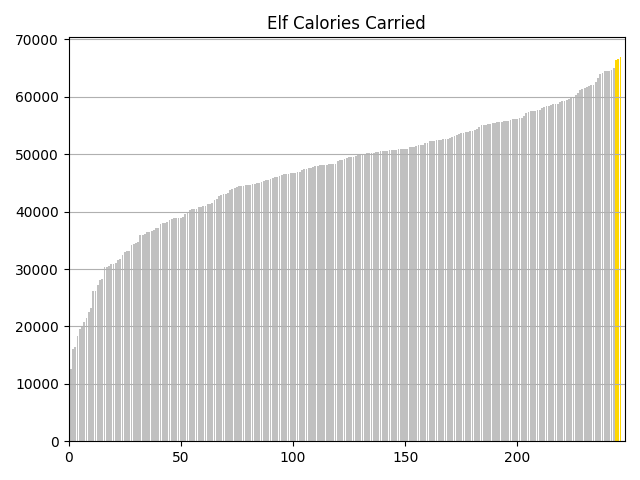
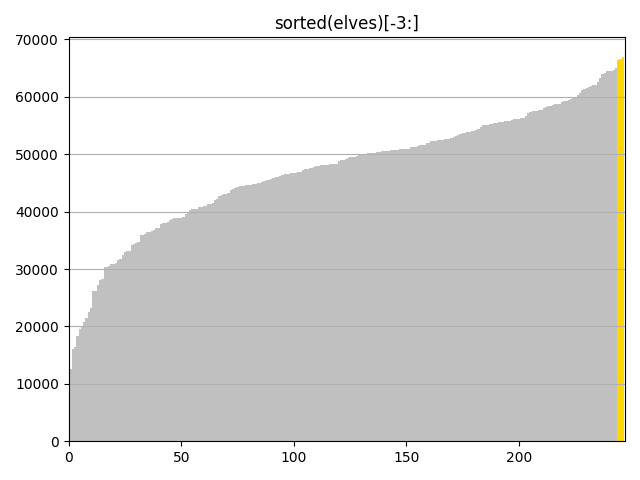
day1 viz

diff --git a/test.py b/test.py
@@ -1,17 +1,19 @@
-from utils import TESTS
+from utils import TESTS, show
 from pathlib import Path
 import traceback
 import importlib
+import sys
 
-REPORT = """
-###### Totals #######
+REPORT = """###### Test Summary #######
 
-EXECUTED = {}
-PASSED = {}
-FAILED = {}
-ERRORS = {}
-SKIPPED = {}
+EXECUTED = {EXECUTED}
+PASSED = {PASSED}
+FAILED = {FAILED}
+ERRORS = {ERRORS}
+SKIPPED = {SKIPPED}
 """
+
+REPORT2 = "executed:{EXECUTED} passed:{PASSED} failed:{FAILED} errors:{ERRORS}"
 
 def test():
     # import each module and run it's tests
@@ -19,20 +21,16 @@ def test():
         module_name = f"day{n}"
         if (Path(__file__).parent / f"{module_name}.py").is_file():
             try:
-                print(f"\n####### Day {n} #######\n")
+                print(f"####### Day {n} #######")
                 mod = importlib.import_module(module_name)
-                mod.main()
+                show(mod.p1, mod.p2, compact=True)
             except:
                 TESTS.ERRORS += 1
                 traceback.print_exc()
 
     # print test report
-    print(REPORT.format(
-        TESTS.EXECUTED,
-        TESTS.PASSED,
-        TESTS.FAILED,
-        TESTS.ERRORS,
-        TESTS.SKIPPED))
+    print(REPORT2.format(**TESTS.__dict__))
 
 if __name__ == "__main__":
     test()
+    sys.exit(TESTS.FAILED)

diff --git a/visualizations.py b/visualizations.py
@@ -10,12 +10,12 @@ def viz1a(elves):
     mx = max(elves)
     for idx, elf in enumerate(elves):
         if elf == mx:
-            ax.bar(idx, elf, color="gold")
+            ax.bar(idx, elf, width=1.0, color="gold")
         else:
-            ax.bar(idx, elf, color="silver")
-    ax.set(title="Elf Calories Carried")
+            ax.bar(idx, elf, width=1.0, color="silver")
+    ax.set(title="max(elf)")
     ax.grid(visible=True, axis="y")
-    ax.set_xlim(0,len(elves))
+    ax.set_xlim(0,len(elves)-1)
     fig.set_tight_layout(True)
     fig.savefig(Path(__file__).parent / 'output' / 'day1a.png')
 
@@ -24,12 +24,12 @@ def viz1b(elves):
     fig, ax = plt.subplots()
     elves = sorted(elves)
     for idx, elf in enumerate(elves[:-3]):
-    	ax.bar(idx, elf, color="silver")
+    	ax.bar(idx, elf, width=1.0, color="silver")
     for idx2, elf in enumerate(elves[-3:]):
-        ax.bar(idx+idx2, elf, color="gold")            
-    ax.set(title="Elf Calories Carried")
+        ax.bar(idx+idx2, elf, width=1.0, color="gold")            
+    ax.set(title="sorted(elves)[-3:]")
     ax.grid(visible=True, axis="y")
-    ax.set_xlim(0,len(elves))
+    ax.set_xlim(0,len(elves)-1)
     fig.set_tight_layout(True)
     fig.savefig(Path(__file__).parent / 'output' / 'day1b.png')
 

diff --git a/utils.py b/utils.py
@@ -139,7 +139,7 @@ def day(ospath):
     n = int(Path(ospath).stem[3:])
     return n
 
-def show(*funcs):
+def show(*funcs, compact=False):
     part = 1
     for func in funcs:
         t1 = time.time()
@@ -156,10 +156,12 @@ def show(*funcs):
             pass
         if expect:
             if ret == expect:
-                print(f"\n    Part {part}\n    PASS: {ret}\n    in {elapsed:.3f} seconds")
+                txt = f"\n    Part {part}\n    PASS: {ret}\n    in {elapsed:.3f} seconds"
+                print(txt.replace("\n    "," ") if compact else txt)
                 TESTS.PASSED += 1
             else:
-                print(f"\n    Part {part}\n    FAIL: {ret} expected {expect}\n    in {elapsed:.3f} seconds")
+                txt = f"\n    Part {part}\n    FAIL: {ret} expected {expect}\n    in {elapsed:.3f} seconds"
+                print(txt.replace("\n    "," ") if compact else txt)
                 TESTS.FAILED += 1
         else:
             print(f"\n    Part {part}\n    {ret}\n    in {elapsed:.3f} seconds")

diff --git a/README.md b/README.md
@@ -1,13 +1,13 @@
 # AoC22
-[Advent of Code 2022](https://adventofcode.com/2022) solutions
+[Advent of Code 2022](https://adventofcode.com/2022) Python 3 solutions
 
 ## Diary
 
 Challenge | Execution Time | Visualisation | Notes
---- | -------------- | ------------- | -----
-Day 1 Calorie Counting [🌐](https://adventofcode.com/2022/day/1)[💾](./day1.py) | 0.0s | [![](./output/day1a.png)](./output/day1a.png)     | Find the elf with most food
-&nbsp; | 0.0s | [![](./output/day1b.png)](./output/day1b.png)  | Find the 3 elves with most food 
+--------- | -------------- | ------------- | -----
+Day 1 Calorie Counting [🌐](https://adventofcode.com/2022/day/1)[💾](./day1.py) | 0.0s | [![](./output/day1a.png)](./output/day1a.png)     | Find the elf with the most calorific food
+&nbsp; | 0.0s | [![](./output/day1b.png)](./output/day1b.png)  | Find the 3 elves with the most calorific food 
 
 ## Powershell
 
-This year I am using a [powershell script](./input/download.ps1) to fetch my inputs, and open todays AoC22 puzzle triggered at 05:00:01 every morning (UK time) or as soon as I log in 😃
+This year I am using a [powershell script](./input/download.ps1) to fetch my inputs, and open todays AoC22 puzzle triggered at 05:00:01 every morning (UK time) 🥱😴 or as soon as I log in 😊
